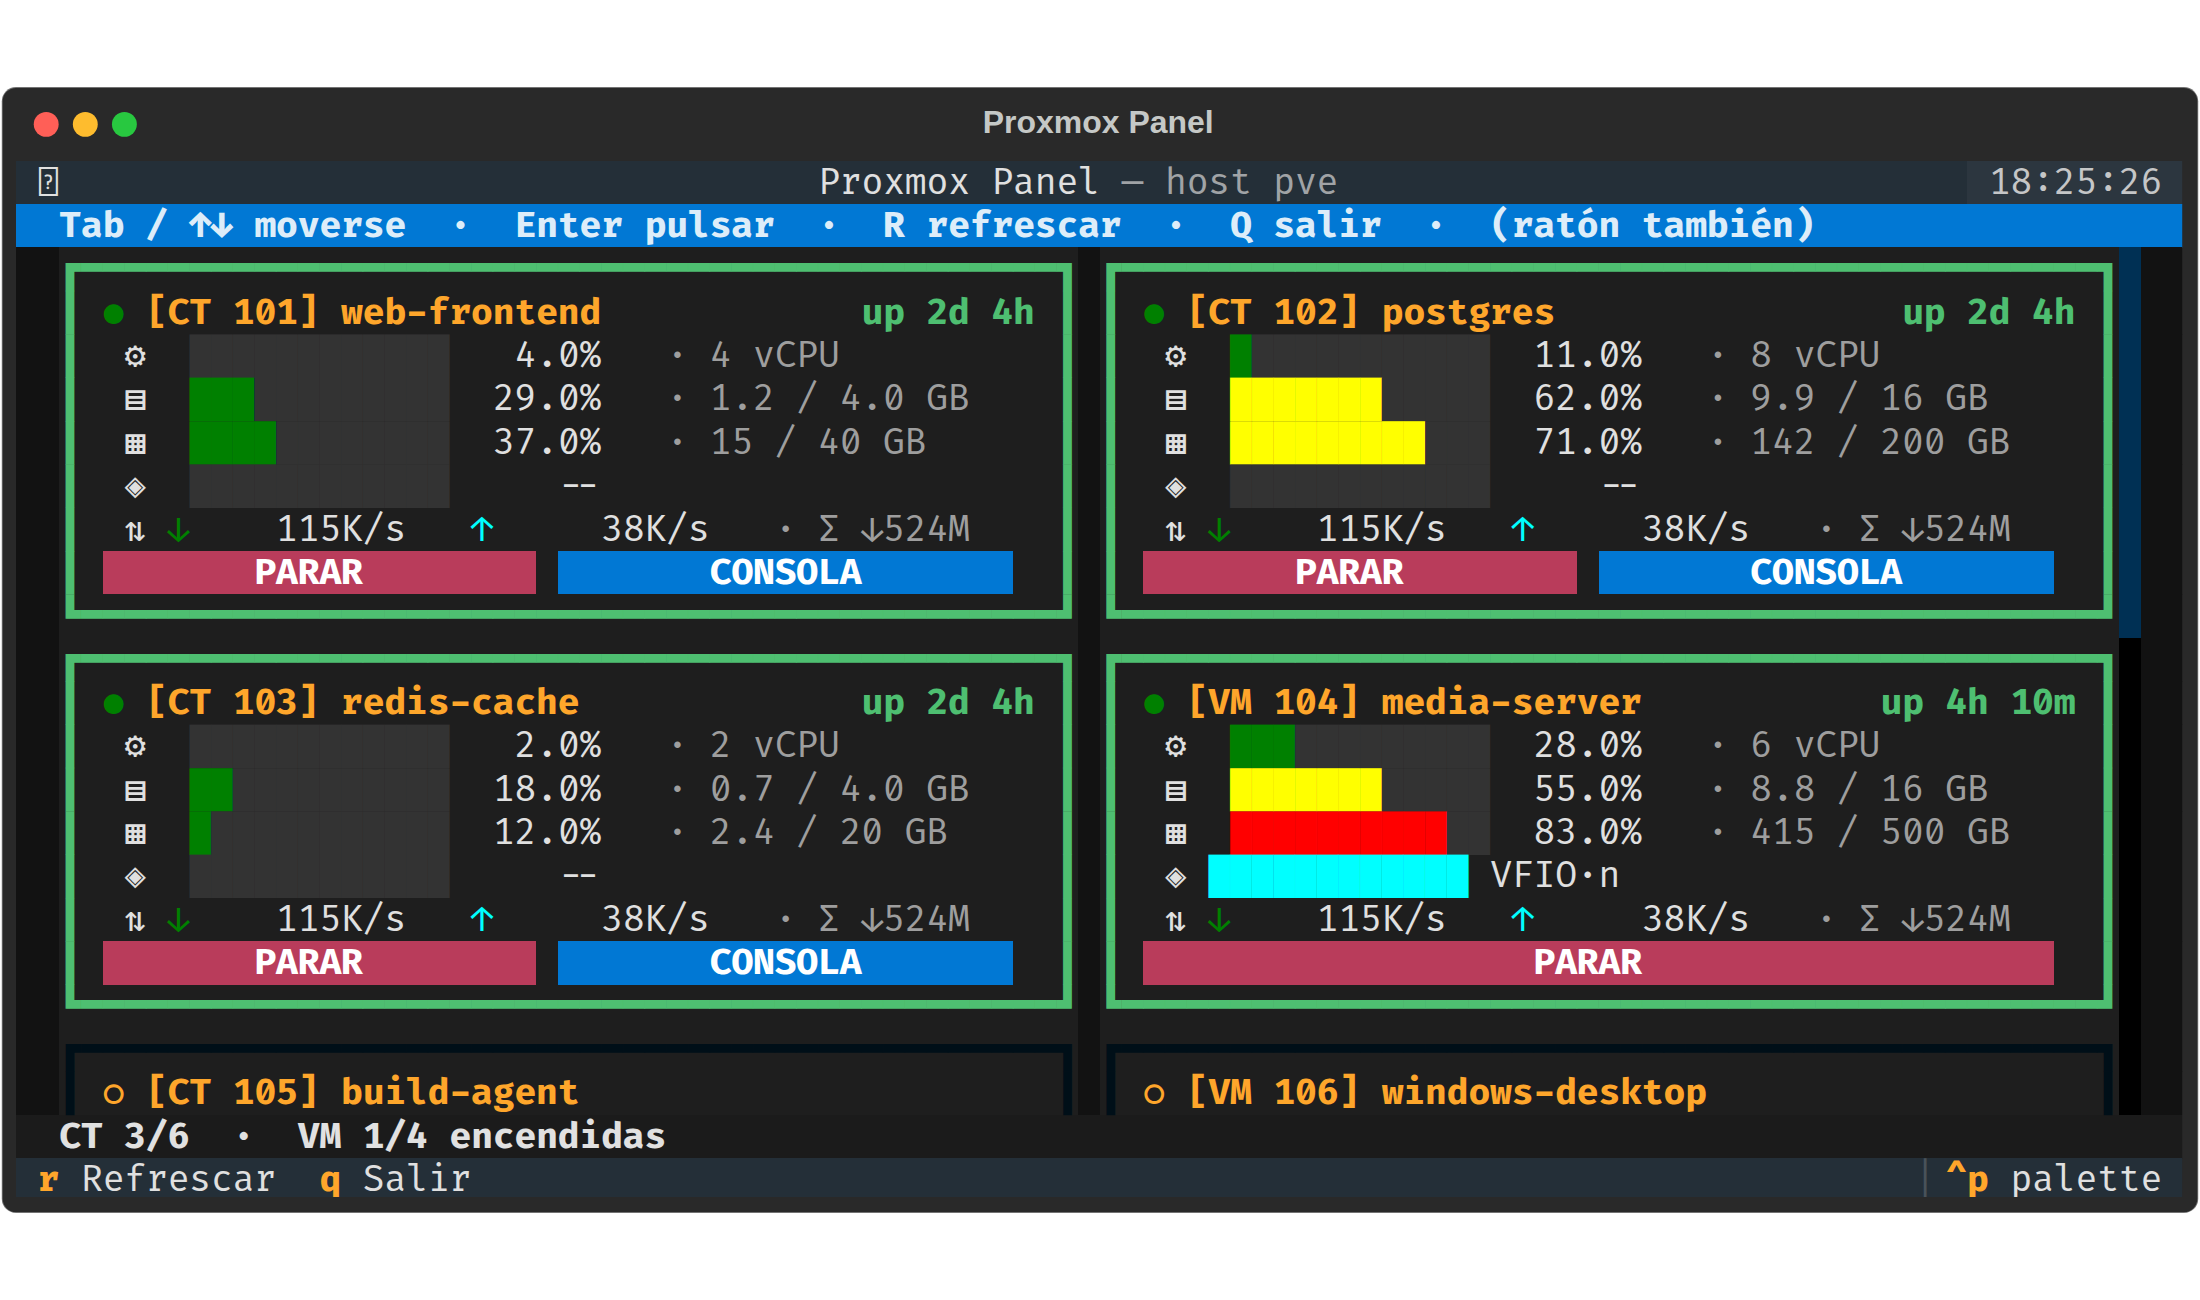
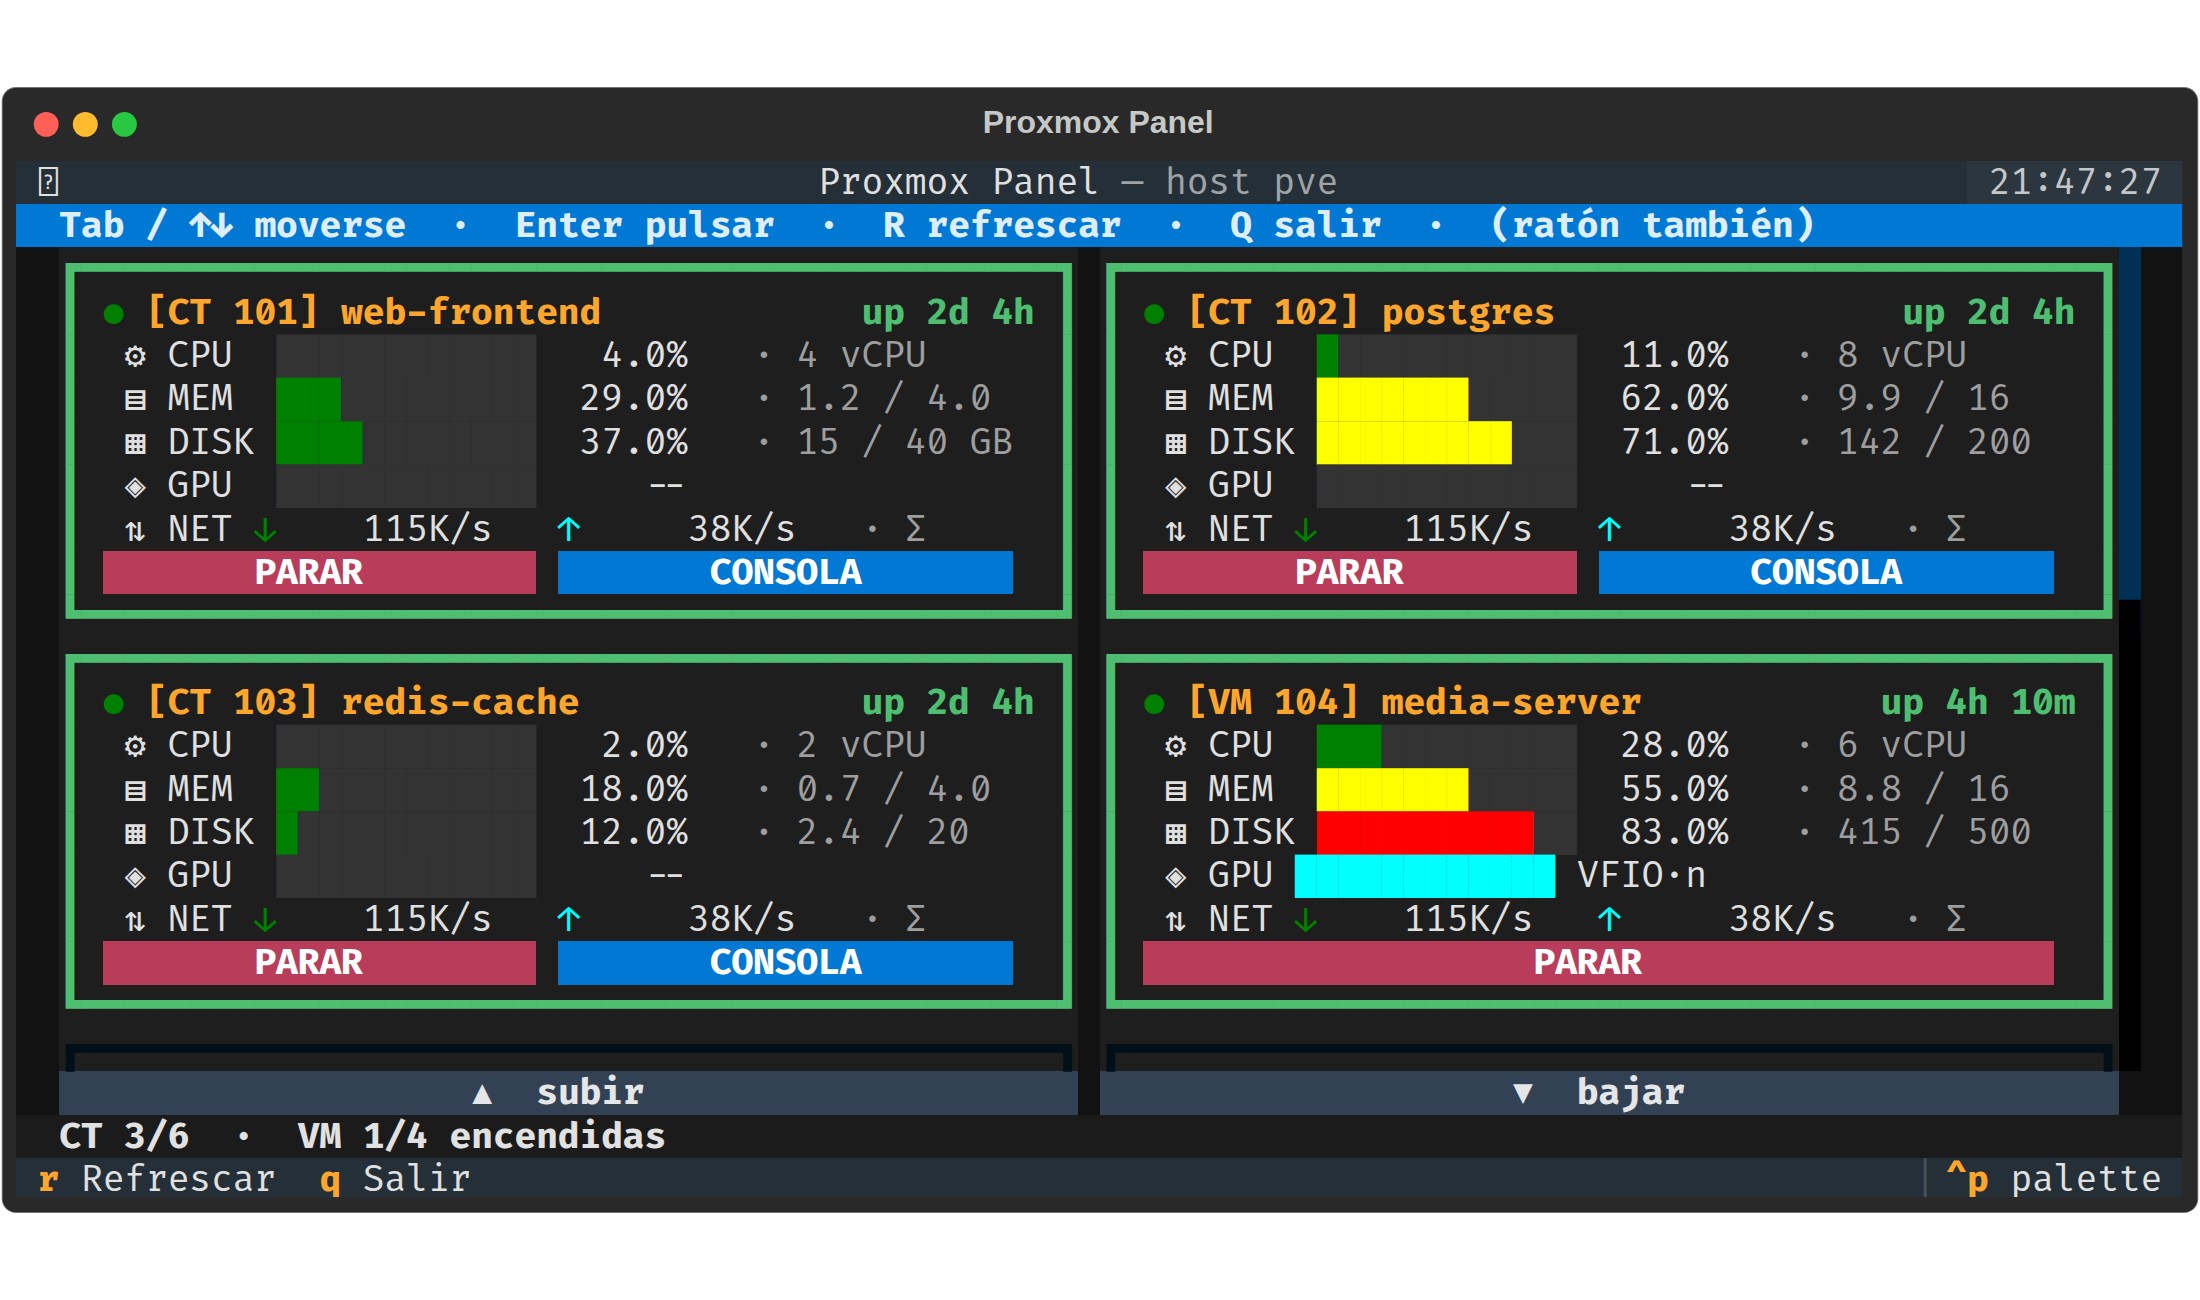
Etiqueta las filas de métricas junto al icono
Los iconos a secas eran ambiguos: ▤ y ▦ se distinguen mal de un vistazo y hay
que memorizar el orden. Ahora cada fila dice `⚙ CPU`, `▤ MEM`, `▦ DISK`,
`◈ GPU`, `⇅ NET`. Cuesta 4 celdas por fila y las tarjetas dan de sí sin tocar
los anchos mínimos.

Capturas regeneradas y documentada una trampa del tamaño de letra: la
geometría del terminal depende de las métricas de celda de la fuente, pero
`--font-size` puede ignorarse sin decir nada — en un host responde y en otro
da siempre celdas de 8x16 aunque informe de `font engine [pango]`. Se incluye
cómo medirlo en vez de suponerlo.

diff --git a/app.py b/app.py
@@ -316,6 +316,14 @@ _IC_DISK = "▦"
 _IC_GPU  = "◈"
 _IC_NET  = "⇅"
 
+# Icono + palabra. El icono solo era ambiguo (▤ y ▦ se parecen demasiado); la
+# palabra al lado cuesta 4 celdas por fila y las tarjetas ya dan de sí.
+_LBL_CPU  = f"{_IC_CPU} CPU"
+_LBL_MEM  = f"{_IC_MEM} MEM"
+_LBL_DISK = f"{_IC_DISK} DISK"
+_LBL_GPU  = f"{_IC_GPU} GPU"
+_LBL_NET  = f"{_IC_NET} NET"
+
 
 def _style_for(pct: float) -> str:
     if pct >= 80: return "red"
@@ -369,9 +377,9 @@ def _metric_line(label: str, pct: float, value: Optional[float] = None,
     """`value=None` se renderiza como '--' (p.ej. nvidia-smi no medible).
     `extra` añade texto atenuado tras el % (vCPUs, GB absolutos, …)."""
     if value is None:
-        base = f"{label:<2} [{_TRACK}]{_BLOCK * _BAR_LEN}[/]     --"
+        base = f"{label:<6} [{_TRACK}]{_BLOCK * _BAR_LEN}[/]     --"
     else:
-        base = f"{label:<2} {_solid_bar(pct, _style_for(pct))} {pct:5.1f}%"
+        base = f"{label:<6} {_solid_bar(pct, _style_for(pct))} {pct:5.1f}%"
     if extra:
         base += f"   [dim]{extra}[/]"
     return base
@@ -380,8 +388,8 @@ def _metric_line(label: str, pct: float, value: Optional[float] = None,
 def _net_line(m: "Machine") -> str:
     """Fila de red: tasa ↓/↑ + total acumulado."""
     if not m.is_running:
-        return f"{_IC_NET} [dim]—[/]"
-    return (f"{_IC_NET} [green]↓[/] {_fmt_rate(m.net_in_rate):>9}   "
+        return f"{_LBL_NET} [dim]—[/]"
+    return (f"{_LBL_NET} [green]↓[/] {_fmt_rate(m.net_in_rate):>9}   "
             f"[cyan]↑[/] {_fmt_rate(m.net_out_rate):>9}"
             f"   [dim]· Σ ↓{_fmt_bytes(m.netin)} ↑{_fmt_bytes(m.netout)}[/]")
 
@@ -390,8 +398,8 @@ def _gpu_line(m: "Machine") -> str:
     """Línea GPU específica: distingue VFIO (NVIDIA/iGPU) vs. medición pmon."""
     if m.gpu_passthrough:
         marca = str(m.gpu_passthrough)[:1]
-        return f"{_IC_GPU} [cyan]{_BLOCK * _BAR_LEN}[/] VFIO·{marca}"
-    return _metric_line(_IC_GPU, m.gpu_pct, m.gpu)
+        return f"{_LBL_GPU} [cyan]{_BLOCK * _BAR_LEN}[/] VFIO·{marca}"
+    return _metric_line(_LBL_GPU, m.gpu_pct, m.gpu)
 
 
 # ---------- UI ----------
@@ -545,17 +553,17 @@ class MachineCard(Container):
     @staticmethod
     def _cpu_text(m: Machine) -> str:
         extra = f"· {m.maxcpu} vCPU" if m.maxcpu else ""
-        return _metric_line(_IC_CPU, m.cpu_pct, m.cpu_pct, extra)
+        return _metric_line(_LBL_CPU, m.cpu_pct, m.cpu_pct, extra)
 
     @staticmethod
     def _mem_text(m: Machine) -> str:
         extra = f"· {_fmt_gib_pair(m.mem, m.maxmem)}" if m.maxmem else ""
-        return _metric_line(_IC_MEM, m.mem_pct, m.mem_pct, extra)
+        return _metric_line(_LBL_MEM, m.mem_pct, m.mem_pct, extra)
 
     @staticmethod
     def _disk_text(m: Machine) -> str:
         extra = f"· {_fmt_gib_pair(m.disk, m.maxdisk)}" if m.maxdisk else ""
-        return _metric_line(_IC_DISK, m.disk_pct, m.disk_pct, extra)
+        return _metric_line(_LBL_DISK, m.disk_pct, m.disk_pct, extra)
 
     @property
     def kind(self) -> str:

diff --git a/README.md b/README.md
@@ -27,7 +27,7 @@ what is running and act on it, even when the network is down.
 - **Grouped by state**: running machines first, stopped ones after, sorted by
   VMID inside each group. Order is only recomputed when a machine actually
   changes state, so nothing flickers on the refresh tick.
-- **Per-machine metrics**: `⚙` CPU · `▤` memory · `▦` disk · `◈` GPU · `⇅` network,
+- **Per-machine metrics**: `⚙ CPU` · `▤ MEM` · `▦ DISK` · `◈ GPU` · `⇅ NET`,
   with solid bars that turn yellow above 50 % and red above 80 %, plus absolute
   values (vCPUs, GB used/total, transfer rates and totals).
 - **GPU passthrough aware**: VMs holding a GPU through VFIO are shown as `VFIO·<tag>`
@@ -153,6 +153,12 @@ install -m 600 config.example.json /etc/lxc-panel/config.json
   Check `journalctl -u lxc-panel | grep "font engine"`; it must say `[pango]`.
   The module is `dlopen`ed, so `ldd` on the kmscon binary will not reveal the
   missing dependency.
+- **`--font-size` may be silently ignored.** Terminal geometry comes from the
+  font's cell metrics, so a smaller font means more columns. On one of my hosts
+  the option works as expected; on another kmscon always reports 8x16 cells no
+  matter the size (verified with 16, 40 and an explicit `--font-dpi`), even
+  though it says `font engine [pango]`. Measure before assuming:
+  `python3 -c "import fcntl,struct,termios;f=open('/dev/tty1','rb');print(struct.unpack('HHHH',fcntl.ioctl(f,termios.TIOCGWINSZ,b'\0'*8))[:2])"`
 - **Colour emoji do not render** on the console. DejaVu Sans Mono has no emoji
   glyphs, so the panel deliberately sticks to monochrome symbols. Verify a
   candidate glyph with

diff --git a/README.es.md b/README.es.md
@@ -29,7 +29,7 @@ caída.
 - **Agrupado por estado**: primero las encendidas, después las apagadas,
   ordenadas por VMID dentro de cada grupo. El orden solo se recalcula cuando una
   máquina cambia de estado de verdad, así que no parpadea en cada refresco.
-- **Métricas por máquina**: `⚙` CPU · `▤` memoria · `▦` disco · `◈` GPU · `⇅` red,
+- **Métricas por máquina**: `⚙ CPU` · `▤ MEM` · `▦ DISK` · `◈ GPU` · `⇅ NET`,
   con barras sólidas que pasan a amarillo por encima del 50 % y a rojo por encima
   del 80 %, más los valores absolutos (vCPUs, GB usados/totales, tasas y totales
   de transferencia).
@@ -161,6 +161,12 @@ install -m 600 config.example.json /etc/lxc-panel/config.json
   `journalctl -u lxc-panel | grep "font engine"`: tiene que decir `[pango]`. El
   módulo se carga con `dlopen`, así que un `ldd` sobre el binario de kmscon no
   delata la dependencia que falta.
+- **`--font-size` puede ignorarse sin avisar.** La geometría del terminal sale de
+  las métricas de celda de la fuente, así que menos tamaño = más columnas. En uno
+  de mis hosts la opción funciona; en otro kmscon da siempre celdas de 8x16 sea
+  cual sea el tamaño (probado con 16, 40 y con `--font-dpi` explícito), aunque
+  diga `font engine [pango]`. Mide antes de dar nada por hecho:
+  `python3 -c "import fcntl,struct,termios;f=open('/dev/tty1','rb');print(struct.unpack('HHHH',fcntl.ioctl(f,termios.TIOCGWINSZ,b'\0'*8))[:2])"`
 - **Los emoji de color no se renderizan** en la consola. DejaVu Sans Mono no
   tiene glifos de emoji, así que el panel usa símbolos monocromos a propósito.
   Para comprobar un glifo candidato:
